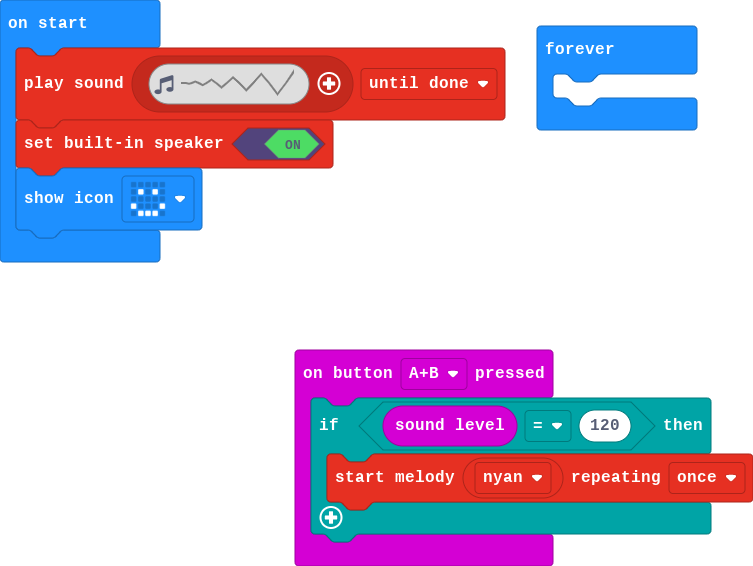
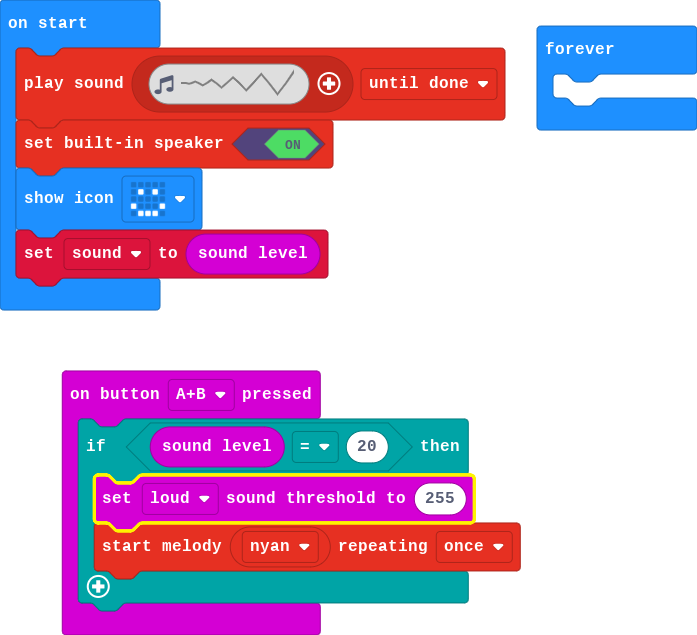
Update main.blocks, main.ts

diff --git a/main.ts b/main.ts
@@ -1,11 +1,13 @@
 input.onButtonPressed(Button.AB, function () {
-    if (input.soundLevel() == 120) {
+    if (input.soundLevel() == 20) {
+        input.setSoundThreshold(SoundThreshold.Loud, 255)
         music.startMelody(music.builtInMelody(Melodies.Nyan), MelodyOptions.Once)
     }
 })
 music.playSoundEffect(music.createSoundEffect(WaveShape.Triangle, 5000, 2379, 0, 255, 4274, SoundExpressionEffect.None, InterpolationCurve.Curve), SoundExpressionPlayMode.UntilDone)
 music.setBuiltInSpeakerEnabled(true)
 basic.showIcon(IconNames.Happy)
+let sound = input.soundLevel()
 basic.forever(function () {
 	
 })
